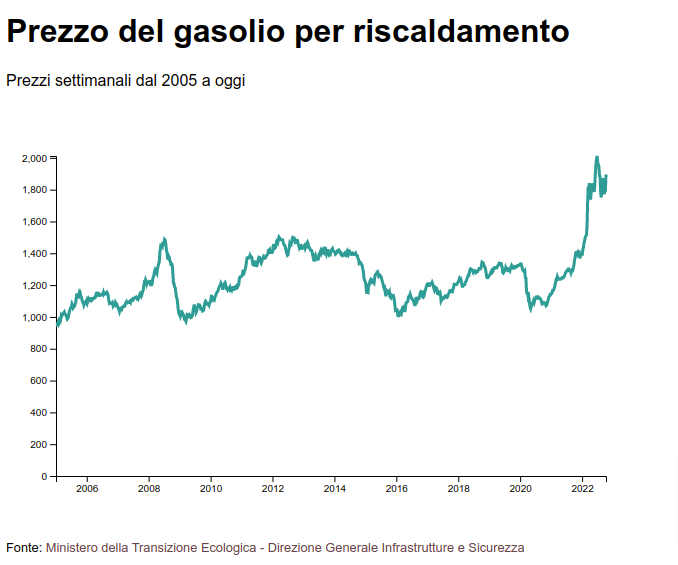
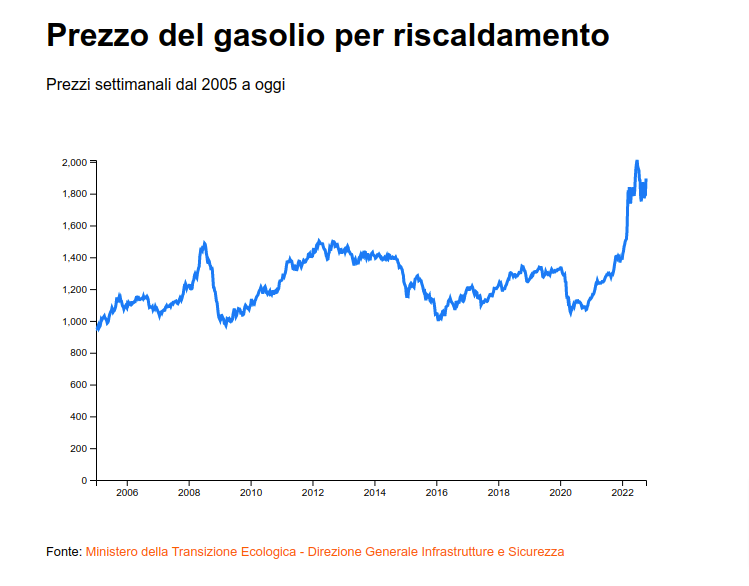
changed css

diff --git a/index.html b/index.html
@@ -14,23 +14,20 @@
 </head>
 
 <body>
-    <h1>Prezzo del gasolio per riscaldamento</h1>
-    <p>Prezzi settimanali dal 2005 a oggi</p>
-
     <div id="container">
+        <h1>Prezzo del gasolio per riscaldamento</h1>
+        <p>Prezzi settimanali dal 2005 a oggi</p>
+
         <svg id="chart" width="700" height="400">
-            <g id="chart_body" transform="translate(50,50)"">
-
-            </g>
+            <g id="chart_body" transform="translate(50,50)""></g>
         </svg>
+
+
+    <div class=" source">
+                Fonte: <a href="https://dgsaie.mise.gov.it/open-data" target="_blank" rel="noopener noreferrer">
+                    Ministero della Transizione Ecologica - Direzione Generale Infrastrutture e Sicurezza</a>
     </div>
-
-
-    <div class=" source">Fonte: <a href="https://dgsaie.mise.gov.it/open-data" target="_blank"
-                    rel="noopener noreferrer">Ministero della Transizione Ecologica - Direzione Generale Infrastrutture
-                    e Sicurezza</a>
     </div>
-
     <script>
         const dateFormatter = d3.timeFormat("%d %B %Y");
 
@@ -51,13 +48,19 @@
 
             const maxValue = d3.max(data, d => d.price)
 
-            const yScale = d3.scaleLinear().range([height, 0]).domain([0, maxValue]);
+            const yScale = d3.scaleLinear()
+                .range([height, 0])
+                .domain([0, maxValue]);
 
+            const xScale = d3.scaleTime()
+                .range([0, width])
+                .domain(d3.extent(data, d => d.date))
 
-            const xScale = d3.scaleTime().range([0, width]).domain(d3.extent(data, d => d.date))
-
-            body.append("g").call(d3.axisLeft(yScale))
-            body.append("g").attr("transform", `translate(0, ${height})`).call(d3.axisBottom(xScale))
+            body.append("g")
+                .call(d3.axisLeft(yScale))
+            body.append("g")
+                .attr("transform", `translate(0, ${height})`)
+                .call(d3.axisBottom(xScale))
 
             const line = d3.line()
                 .x(d => xScale(d.date))
@@ -70,7 +73,7 @@
                 .attr("class", "line")
 
 
-            let div = d3.select("body").append("div")
+            const div = d3.select("body").append("div")
                 .attr("class", "tooltip")
                 .style("opacity", 0);
 

diff --git a/css/style.css b/css/style.css
@@ -36,6 +36,11 @@ div.tooltip {
   pointer-events: none;
 }
 
+#container {
+  width: fit-content;
+  margin: auto;
+}
+
 .line {
   fill: none;
   stroke: #1c7af5;
